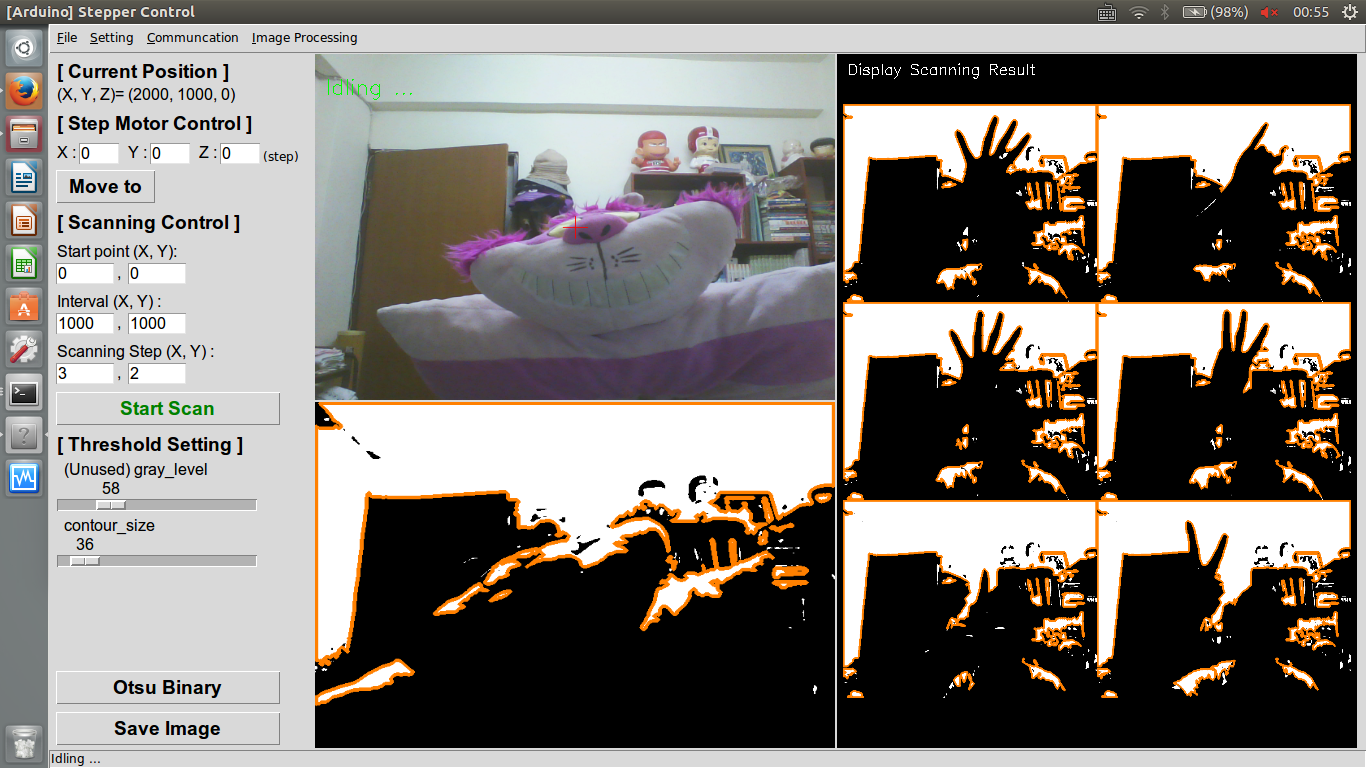
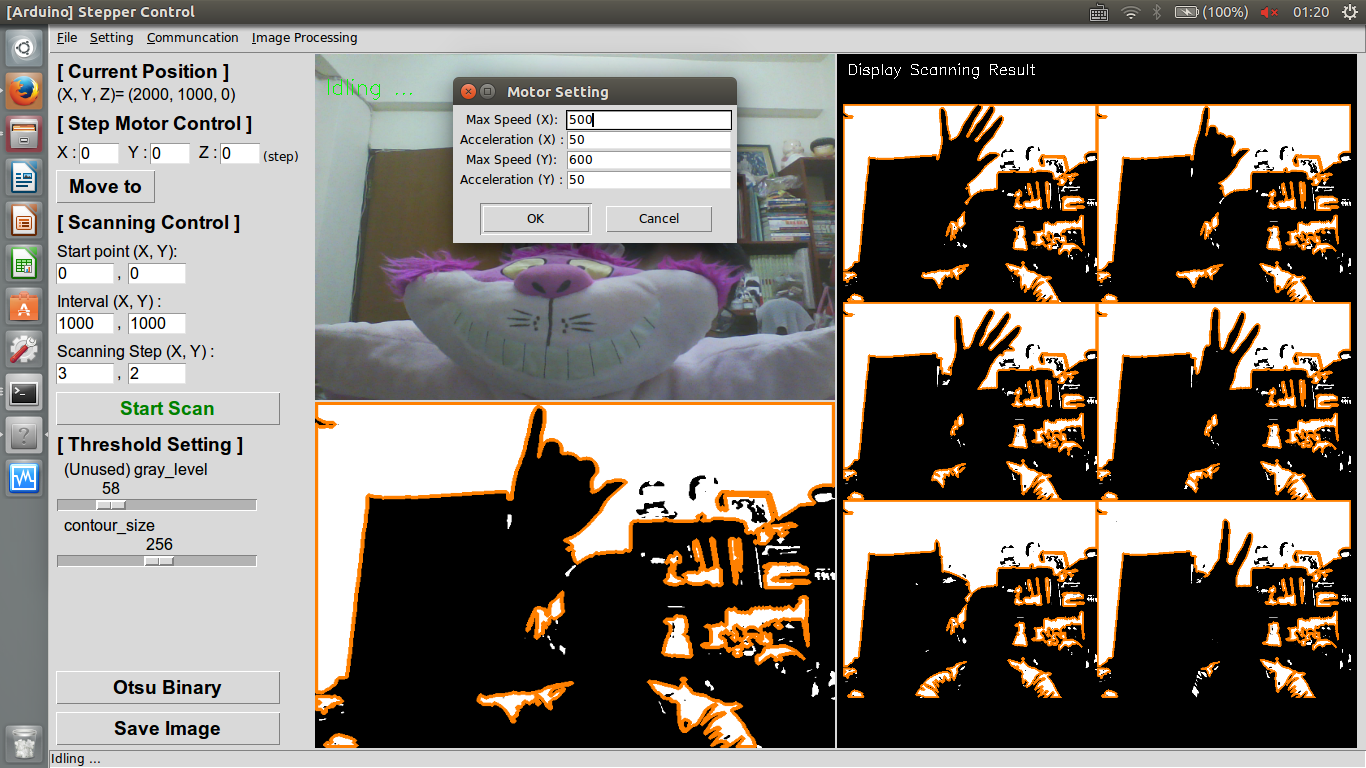
class_ConfigSetting & dialog_MotorSetting are added

diff --git a/gui_main.py b/gui_main.py
@@ -509,10 +509,12 @@ class App:
         while self.scanning_judge:
             if self.StartScan_judge:
                 print 'Scanning...'
+                '''
                 if not(self.imageProcessor.check_background()):
                     tkMessageBox.showerror("Error", 'Background has not been built yet!')
                     self.StartScan_judge= False
                     break
+                '''
                 for step_X in range(0, self.scan_X[2]):
                     for step_Y in range(0, self.scan_Y[2]):
                         if self.StartScan_judge== False:
